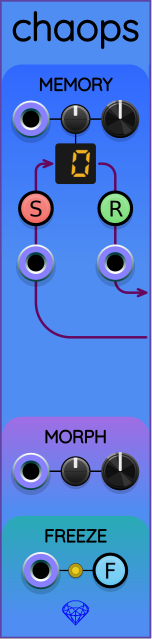
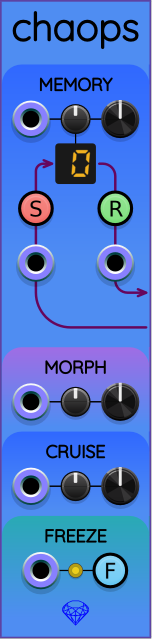
Chaops: Updated screenshot. Edit doc to mention CRUISE.

Changed region(s): [[0.0, 0.446, 1.0, 0.8028]]

diff --git a/doc/Chaops.md b/doc/Chaops.md
@@ -2,7 +2,7 @@
 
 ![Chaops](images/chaops.png)
 
-The name "Chaops" is an abbreviation of "chaos operators". Chaops is a left-expander module that provides extra functionality to the chaos modules [Frolic](Frolic.md), [Glee](Glee.md), and [Lark](Lark.md). When you place Chaops to the immediate left of a Frolic, Glee, or Lark chaos module, Chaops allows you to access additional functionality not available from outside that chaos module.
+The name "Chaops" is an abbreviation of "chaos operators". Chaops is a left-expander module that provides extra functionality to the chaos modules [Frolic](Frolic.md), [Glee](Glee.md), [Lark](Lark.md), and [Zoo](Zoo.md). Placing Chaops to the immediate left of one of these chaos modules allows you to access additional functionality.
 
 ### Demo video
 
@@ -25,6 +25,22 @@ Beneath the R and S buttons are corresponding trigger inputs that allow you to a
 ### Morph
 
 The chaos modules all produce 3D vectors. Without Chaops, these 3D vectors are always position vectors in an abstract 3D space. The MORPH section in Chaops allows you to select position vectors, velocity vectors, or any linear combination between the two. By default, the larger knob on the right is set to 0, which keeps the existing position vector output behavior. When you turn the knob all the way clockwise to 1, the chaos module to the right of Chaops will output velocity vectors instead. Intermediate values between 0 and 1 output a linear weighted mix of position and velocity. The CV input port and attenuverter allow you to automate the morph mix between position and velocity. This feature provides another dimension of variability to produce novel chaotic signals.
+
+### Cruise
+
+(NOTE: This is a newer control that was added after the above demo video was recorded.)
+
+Just like many vehicles have *cruise control* to maintain a steady speed, the CRUISE control group in Chaops helps regulate the speed of the attached chaos module's imaginary particle. If you use [Tricorder](Tricorder.md) on the right of the chaos module to watch the movement of the chaotic particle in 3D space, you will notice that sometimes the particle moves faster, sometime slower. The speed variability can be quite large in some of the attractor formulas (Lark, for example).
+
+The CRUISE knob varies from 0 to 1. When it is set to 0 (its default value), the chaotic particle moves at its usual variable speed. This is the same behavior as when Chaops is not attached to the left side of the chaos module.
+
+When CRUISE is set to 1, the particle's speed is held constant in theory, nearly constant in practice. The reason for imperfectly uniform speed is that many of the attractor formulas have been made more "voltage-friendly" by compressing or stretching distances independently in the x, y, and z directions. We view the particle's movement after its position has been transformed differently along different directions in space. Although not perfectly uniform, you may find the effect useful in regulating rhythms or timing created by the chaos module.
+
+When CRUISE is set to values between 0 and 1, the particle's speed is interpolated linearly between the original unprocessed speed it would have with CRUISE=0 and the uniform speed it would have when CRUISE=1. Therefore, by adjusting CRUISE gradually from 0 to 1, the particle's speed will become gradually more steady.
+
+Interesting use case: If you adjust **both** CRUISE=1 and MORPH=1 (see previous section), you will end up graphing the velocity vectors instead of position vectors, and all the velocity vectors will have the same magnitude. If it weren't for the aforementioned "voltage-friendly" transformations, the particle would always be confined to the surface of a sphere. In practice, the transformations will cause some attractors to render on an oblong or oblate spheroid.
+
+Every attractor formula has its own *cruising speed*. This is the speed the particle moves when CRUISE=1. The crusing speeds have been customized for all attractor formulas used by Sapphire. I made an effort to match the cruising speed of each attractor to its rough average speed.
 
 ### Freeze
 
